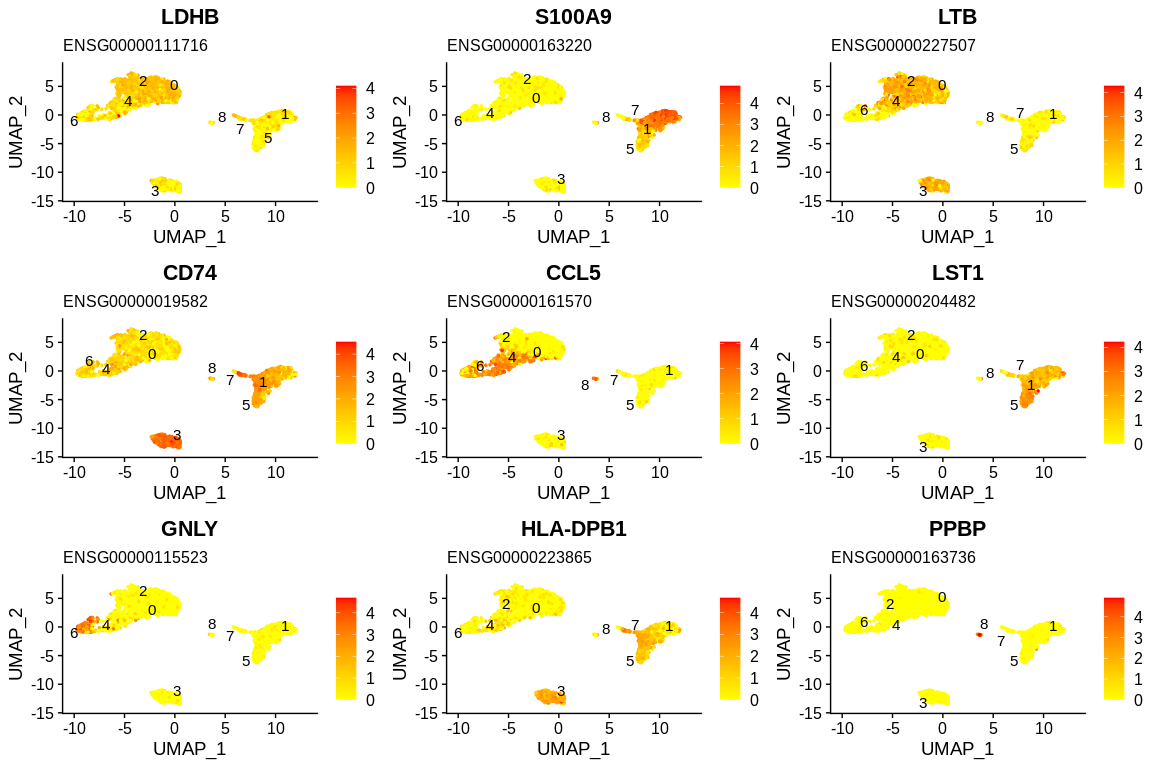
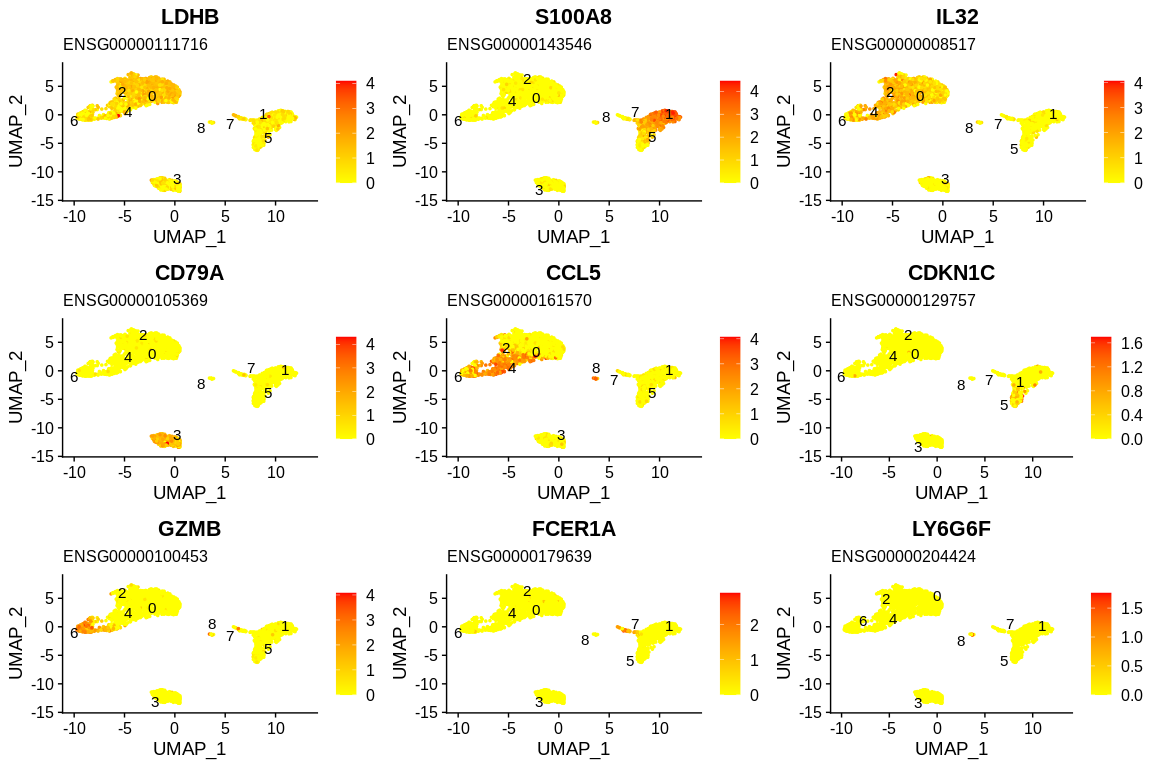
update seurat v5 marker_annot

diff --git a/docs/scRNAseq_basics/marker_annot.md b/docs/scRNAseq_basics/marker_annot.md
@@ -33,49 +33,55 @@ pbmc_markers_signif <- subset(pbmc_markers_annotated,
 table(pbmc_markers_signif$cluster)
 ```
 
-    ##
-    ##   0   1   2   3   4   5   6   7   8
-    ## 321 518 166 337 173 436 384 127 233
+    ## 
+    ##    0    1    2    3    4    5    6    7    8 
+    ##  688 1000  403  554  280  975  453  430  296
 
 ``` r
 ## Sorting results by cluster and by average log2(Fold Change)
 pbmc_markers_signif <- pbmc_markers_signif %>%                 #Rearrange df with dplyr package
   group_by(cluster) %>%                                        #Group df based on cluster column
-  arrange(desc(avg_log2FC), .by_group = TRUE)                  #Sort lines by descending the column avg_log2FC and by group
+  arrange(desc(pct.1), .by_group = TRUE)                  #Sort lines by descending the column avg_log2FC and by group
+
+## Filter to retrieve meaningful genes
+markers_display <- pbmc_markers_signif %>% 
+  filter((pct.1 - pct.2) >= (0.25 * pct.1) & pct.1 >= 0.5) %>%
+  slice_max(n = 3, order_by = avg_log2FC, with_ties = FALSE)
 
 ## Most DE gene marker for each cluster
-kable(top_n(x= pbmc_markers_signif, n = 3, wt = avg_log2FC))
+paged_table(markers_display)
 ```
 ??? abstract "First annotated markers for each cluster"
-    | gene            | p_val | avg_log2FC | pct.1 | pct.2 | p_val_adj | cluster | external_gene_name | description                                                                                                  | gene_biotype   | chromosome_name |
-    |:----------------|------:|-----------:|------:|------:|----------:|:--------|:-------------------|:-------------------------------------------------------------------------------------------------------------|:---------------|:----------------|
-    | ENSG00000111716 |     0 |  0.7920556 | 0.929 | 0.592 |         0 | 0       | LDHB               | lactate dehydrogenase B \[Source:HGNC Symbol;Acc:6541\]                                                      | protein_coding | 12              |
-    | ENSG00000145425 |     0 |  0.7576946 | 0.997 | 0.976 |         0 | 0       | RPS3A              | ribosomal protein S3A \[Source:HGNC Symbol;Acc:10421\]                                                       | protein_coding | 4               |
-    | ENSG00000118181 |     0 |  0.7149172 | 1.000 | 0.978 |         0 | 0       | RPS25              | ribosomal protein S25 \[Source:HGNC Symbol;Acc:10413\]                                                       | protein_coding | 11              |
-    | ENSG00000163220 |     0 |  4.4535241 | 0.998 | 0.212 |         0 | 1       | S100A9             | S100 calcium binding protein A9 \[Source:HGNC Symbol;Acc:10499\]                                             | protein_coding | 1               |
-    | ENSG00000090382 |     0 |  4.0594058 | 1.000 | 0.517 |         0 | 1       | LYZ                | lysozyme \[Source:HGNC Symbol;Acc:6740\]                                                                     | protein_coding | 12              |
-    | ENSG00000143546 |     0 |  3.9631418 | 0.971 | 0.119 |         0 | 1       | S100A8             | S100 calcium binding protein A8 \[Source:HGNC Symbol;Acc:10498\]                                             | protein_coding | 1               |
-    | ENSG00000227507 |     0 |  1.1123793 | 0.979 | 0.649 |         0 | 2       | LTB                | lymphotoxin beta (TNF superfamily, member 3) \[Source:HGNC Symbol;Acc:6711\]                                 | protein_coding | 6               |
-    | ENSG00000008517 |     0 |  0.9990429 | 0.949 | 0.473 |         0 | 2       | IL32               | interleukin 32 \[Source:HGNC Symbol;Acc:16830\]                                                              | protein_coding | 16              |
-    | ENSG00000168685 |     0 |  0.7342628 | 0.733 | 0.336 |         0 | 2       | IL7R               | interleukin 7 receptor \[Source:HGNC Symbol;Acc:6024\]                                                       | protein_coding | 5               |
-    | ENSG00000019582 |     0 |  2.7304144 | 1.000 | 0.820 |         0 | 3       | CD74               | CD74 molecule, major histocompatibility complex, class II invariant chain \[Source:HGNC Symbol;Acc:1697\]    | protein_coding | 5               |
-    | ENSG00000105369 |     0 |  2.5281075 | 0.939 | 0.041 |         0 | 3       | CD79A              | CD79a molecule, immunoglobulin-associated alpha \[Source:HGNC Symbol;Acc:1698\]                              | protein_coding | 19              |
-    | ENSG00000204287 |     0 |  2.5010512 | 1.000 | 0.492 |         0 | 3       | HLA-DRA            | major histocompatibility complex, class II, DR alpha \[Source:HGNC Symbol;Acc:4947\]                         | protein_coding | 6               |
-    | ENSG00000161570 |     0 |  2.6006662 | 0.968 | 0.223 |         0 | 4       | CCL5               | chemokine (C-C motif) ligand 5 \[Source:HGNC Symbol;Acc:10632\]                                              | protein_coding | 17              |
-    | ENSG00000105374 |     0 |  1.8826628 | 0.906 | 0.215 |         0 | 4       | NKG7               | natural killer cell group 7 sequence \[Source:HGNC Symbol;Acc:7830\]                                         | protein_coding | 19              |
-    | ENSG00000113088 |     0 |  1.6720773 | 0.582 | 0.050 |         0 | 4       | GZMK               | granzyme K (granzyme 3; tryptase II) \[Source:HGNC Symbol;Acc:4711\]                                         | protein_coding | 5               |
-    | ENSG00000204482 |     0 |  2.5414949 | 1.000 | 0.315 |         0 | 5       | LST1               | leukocyte specific transcript 1 \[Source:HGNC Symbol;Acc:14189\]                                             | protein_coding | 6               |
-    | ENSG00000203747 |     0 |  2.2148756 | 0.975 | 0.135 |         0 | 5       | FCGR3A             | Fc fragment of IgG, low affinity IIIa, receptor (CD16a) \[Source:HGNC Symbol;Acc:3619\]                      | protein_coding | 1               |
-    | ENSG00000158869 |     0 |  2.2070349 | 0.994 | 0.317 |         0 | 5       | FCER1G             | Fc fragment of IgE, high affinity I, receptor for; gamma polypeptide \[Source:HGNC Symbol;Acc:3611\]         | protein_coding | 1               |
-    | ENSG00000115523 |     0 |  4.2579309 | 0.968 | 0.131 |         0 | 6       | GNLY               | granulysin \[Source:HGNC Symbol;Acc:4414\]                                                                   | protein_coding | 2               |
-    | ENSG00000105374 |     0 |  3.4664868 | 1.000 | 0.260 |         0 | 6       | NKG7               | natural killer cell group 7 sequence \[Source:HGNC Symbol;Acc:7830\]                                         | protein_coding | 19              |
-    | ENSG00000100453 |     0 |  3.3326422 | 0.955 | 0.068 |         0 | 6       | GZMB               | granzyme B (granzyme 2, cytotoxic T-lymphocyte-associated serine esterase 1) \[Source:HGNC Symbol;Acc:4709\] | protein_coding | 14              |
-    | ENSG00000223865 |     0 |  2.5518720 | 1.000 | 0.510 |         0 | 7       | HLA-DPB1           | major histocompatibility complex, class II, DP beta 1 \[Source:HGNC Symbol;Acc:4940\]                        | protein_coding | 6               |
-    | ENSG00000204287 |     0 |  2.3823825 | 1.000 | 0.552 |         0 | 7       | HLA-DRA            | major histocompatibility complex, class II, DR alpha \[Source:HGNC Symbol;Acc:4947\]                         | protein_coding | 6               |
-    | ENSG00000101439 |     0 |  2.3027895 | 1.000 | 0.389 |         0 | 7       | CST3               | cystatin C \[Source:HGNC Symbol;Acc:2475\]                                                                   | protein_coding | 20              |
-    | ENSG00000163736 |     0 |  6.4755064 | 1.000 | 0.025 |         0 | 8       | PPBP               | pro-platelet basic protein (chemokine (C-X-C motif) ligand 7) \[Source:HGNC Symbol;Acc:9240\]                | protein_coding | 4               |
-    | ENSG00000163737 |     0 |  5.4177748 | 1.000 | 0.011 |         0 | 8       | PF4                | platelet factor 4 \[Source:HGNC Symbol;Acc:8861\]                                                            | protein_coding | 4               |
-    | ENSG00000120885 |     0 |  4.5424885 | 0.857 | 0.015 |         0 | 8       | CLU                | clusterin \[Source:HGNC Symbol;Acc:2095\]                                                                    | protein_coding | 8               |
+    | gene            | p_val | avg_log2FC | pct.1 | pct.2 | p_val_adj | cluster | external_gene_name | description                                                                                                                            | gene_biotype   | chromosome_name |
+    |:----|--:|---:|--:|--:|---:|:--|:-----|:---------------------------------|:----|:----|
+    | ENSG00000142546 |     0 |   1.261953 | 0.663 | 0.354 |         0 | 0       | NOSIP              | nitric oxide synthase interacting protein \[Source:HGNC Symbol;Acc:17946\]                                                             | protein_coding | 19              |
+    | ENSG00000111716 |     0 |   1.179308 | 0.929 | 0.592 |         0 | 0       | LDHB               | lactate dehydrogenase B \[Source:HGNC Symbol;Acc:6541\]                                                                                | protein_coding | 12              |
+    | ENSG00000167286 |     0 |   1.061714 | 0.853 | 0.415 |         0 | 0       | CD3D               | CD3d molecule, delta (CD3-TCR complex) \[Source:HGNC Symbol;Acc:1673\]                                                                 | protein_coding | 11              |
+    | ENSG00000143546 |     0 |   6.683076 | 0.971 | 0.119 |         0 | 1       | S100A8             | S100 calcium binding protein A8 \[Source:HGNC Symbol;Acc:10498\]                                                                       | protein_coding | 1               |
+    | ENSG00000163220 |     0 |   6.215798 | 0.998 | 0.212 |         0 | 1       | S100A9             | S100 calcium binding protein A9 \[Source:HGNC Symbol;Acc:10499\]                                                                       | protein_coding | 1               |
+    | ENSG00000170458 |     0 |   5.984897 | 0.666 | 0.027 |         0 | 1       | CD14               | CD14 molecule \[Source:HGNC Symbol;Acc:1628\]                                                                                          | protein_coding | 5               |
+    | ENSG00000116824 |     0 |   1.563939 | 0.635 | 0.254 |         0 | 2       | CD2                | CD2 molecule \[Source:HGNC Symbol;Acc:1639\]                                                                                           | protein_coding | 1               |
+    | ENSG00000168685 |     0 |   1.408361 | 0.733 | 0.336 |         0 | 2       | IL7R               | interleukin 7 receptor \[Source:HGNC Symbol;Acc:6024\]                                                                                 | protein_coding | 5               |
+    | ENSG00000008517 |     0 |   1.384736 | 0.949 | 0.473 |         0 | 2       | IL32               | interleukin 32 \[Source:HGNC Symbol;Acc:16830\]                                                                                        | protein_coding | 16              |
+    | ENSG00000247982 |     0 |   7.168087 | 0.561 | 0.010 |         0 | 3       | LINC00926          | long intergenic non-protein coding RNA 926 \[Source:HGNC Symbol;Acc:27514\]                                                            | lincRNA        | 15              |
+    | ENSG00000105369 |     0 |   6.865916 | 0.939 | 0.041 |         0 | 3       | CD79A              | CD79a molecule, immunoglobulin-associated alpha \[Source:HGNC Symbol;Acc:1698\]                                                        | protein_coding | 19              |
+    | ENSG00000100721 |     0 |   6.590071 | 0.625 | 0.022 |         0 | 3       | TCL1A              | T-cell leukemia/lymphoma 1A \[Source:HGNC Symbol;Acc:11648\]                                                                           | protein_coding | 14              |
+    | ENSG00000113088 |     0 |   4.668454 | 0.582 | 0.050 |         0 | 4       | GZMK               | granzyme K (granzyme 3; tryptase II) \[Source:HGNC Symbol;Acc:4711\]                                                                   | protein_coding | 5               |
+    | ENSG00000161570 |     0 |   3.478015 | 0.968 | 0.223 |         0 | 4       | CCL5               | chemokine (C-C motif) ligand 5 \[Source:HGNC Symbol;Acc:10632\]                                                                        | protein_coding | 17              |
+    | ENSG00000145220 |     0 |   2.608064 | 0.576 | 0.127 |         0 | 4       | LYAR               | Ly1 antibody reactive \[Source:HGNC Symbol;Acc:26021\]                                                                                 | protein_coding | 4               |
+    | ENSG00000129757 |     0 |   5.643867 | 0.519 | 0.009 |         0 | 5       | CDKN1C             | cyclin-dependent kinase inhibitor 1C (p57, Kip2) \[Source:HGNC Symbol;Acc:1786\]                                                       | protein_coding | 11              |
+    | ENSG00000188290 |     0 |   5.060087 | 0.589 | 0.020 |         0 | 5       | HES4               | hes family bHLH transcription factor 4 \[Source:HGNC Symbol;Acc:24149\]                                                                | protein_coding | 1               |
+    | ENSG00000166927 |     0 |   4.377772 | 0.810 | 0.074 |         0 | 5       | MS4A7              | membrane-spanning 4-domains, subfamily A, member 7 \[Source:HGNC Symbol;Acc:13378\]                                                    | protein_coding | 11              |
+    | ENSG00000115523 |     0 |   6.159853 | 0.968 | 0.131 |         0 | 6       | GNLY               | granulysin \[Source:HGNC Symbol;Acc:4414\]                                                                                             | protein_coding | 2               |
+    | ENSG00000100453 |     0 |   5.924214 | 0.955 | 0.068 |         0 | 6       | GZMB               | granzyme B (granzyme 2, cytotoxic T-lymphocyte-associated serine esterase 1) \[Source:HGNC Symbol;Acc:4709\]                           | protein_coding | 14              |
+    | ENSG00000143185 |     0 |   5.605621 | 0.551 | 0.021 |         0 | 6       | XCL2               | chemokine (C motif) ligand 2 \[Source:HGNC Symbol;Acc:10646\]                                                                          | protein_coding | 1               |
+    | ENSG00000132386 |     0 |   7.901006 | 0.500 | 0.002 |         0 | 7       | SERPINF1           | serpin peptidase inhibitor, clade F (alpha-2 antiplasmin, pigment epithelium derived factor), member 1 \[Source:HGNC Symbol;Acc:8824\] | protein_coding | 17              |
+    | ENSG00000179639 |     0 |   7.630987 | 0.812 | 0.011 |         0 | 7       | FCER1A             | Fc fragment of IgE, high affinity I, receptor for; alpha polypeptide \[Source:HGNC Symbol;Acc:3609\]                                   | protein_coding | 1               |
+    | ENSG00000132514 |     0 |   6.084949 | 0.688 | 0.015 |         0 | 7       | CLEC10A            | C-type lectin domain family 10, member A \[Source:HGNC Symbol;Acc:16916\]                                                              | protein_coding | 17              |
+    | ENSG00000204424 |     0 |  12.573630 | 0.714 | 0.000 |         0 | 8       | LY6G6F             | lymphocyte antigen 6 complex, locus G6F \[Source:HGNC Symbol;Acc:13933\]                                                               | protein_coding | 6               |
+    | ENSG00000005961 |     0 |  11.632991 | 0.857 | 0.002 |         0 | 8       | ITGA2B             | integrin, alpha 2b (platelet glycoprotein IIb of IIb/IIIa complex, antigen CD41) \[Source:HGNC Symbol;Acc:6138\]                       | protein_coding | 17              |
+    | ENSG00000127920 |     0 |  11.064293 | 1.000 | 0.010 |         0 | 8       | GNG11              | guanine nucleotide binding protein (G protein), gamma 11 \[Source:HGNC Symbol;Acc:4403\]                                               | protein_coding | 7               |
+
 
 
 ``` r
